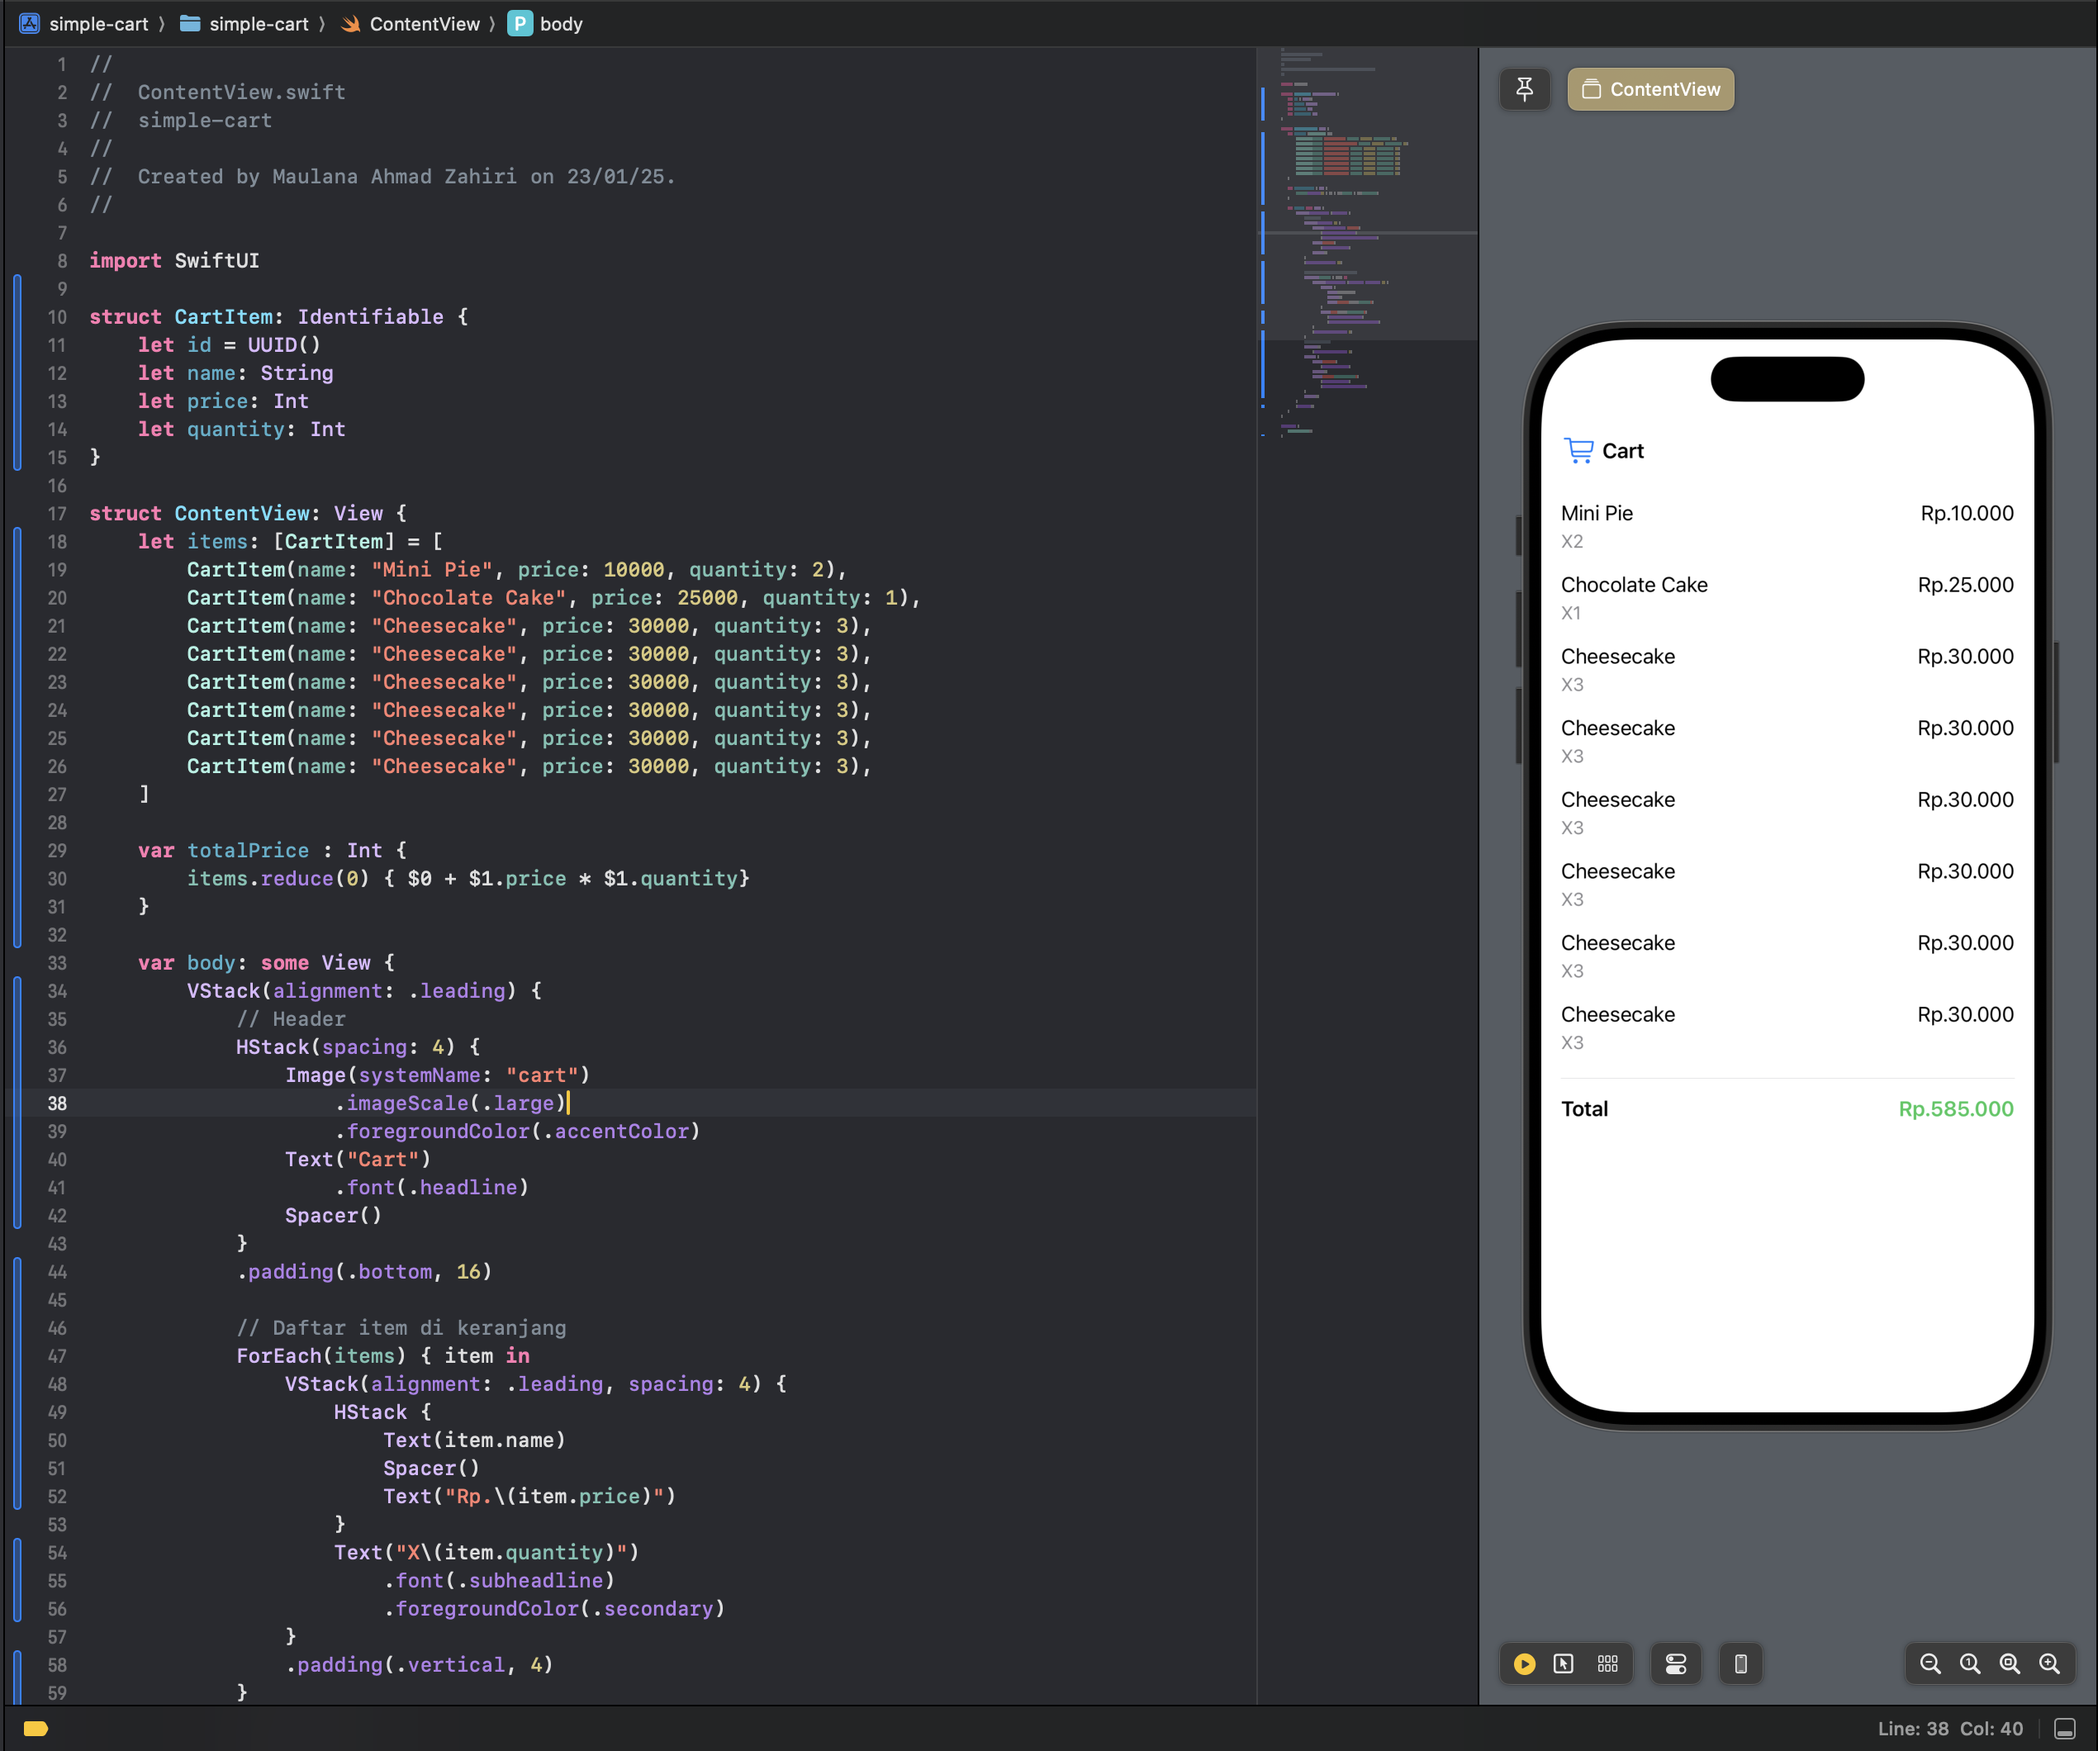
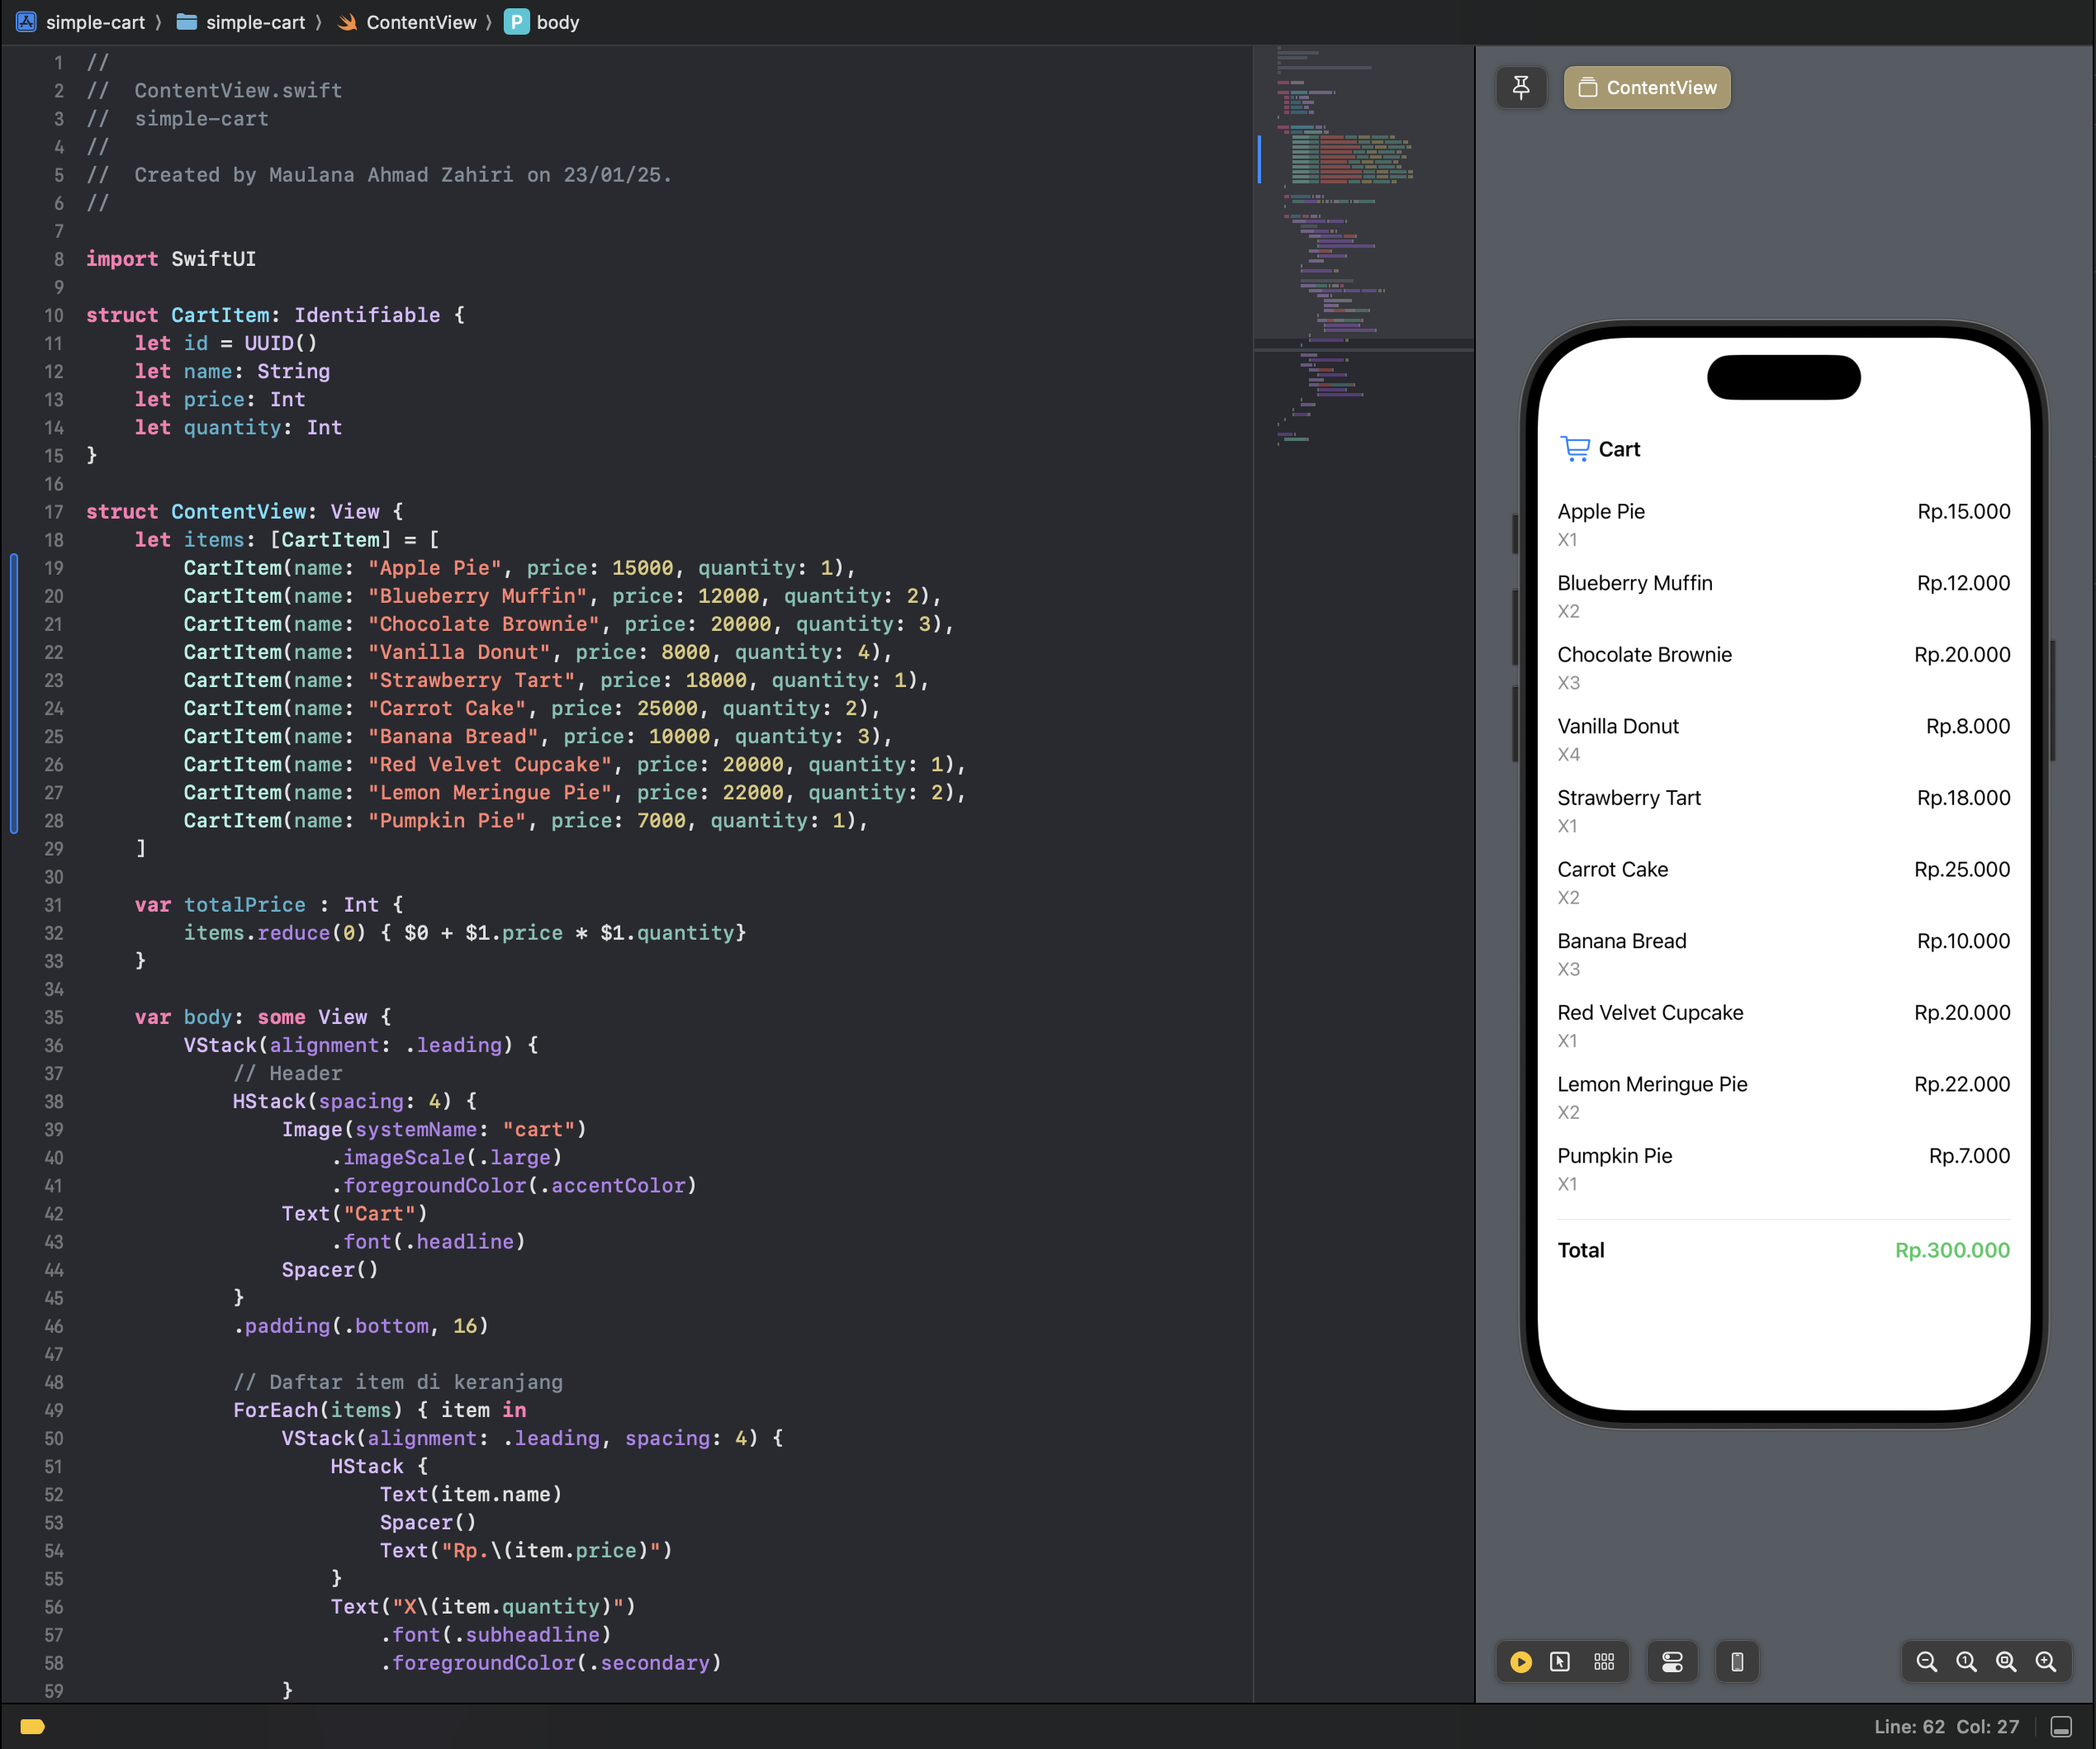
change: items data

diff --git a/simple-cart/ContentView.swift b/simple-cart/ContentView.swift
@@ -16,14 +16,16 @@ struct CartItem: Identifiable {
 
 struct ContentView: View {
     let items: [CartItem] = [
-        CartItem(name: "Mini Pie", price: 10000, quantity: 2),
-        CartItem(name: "Chocolate Cake", price: 25000, quantity: 1),
-        CartItem(name: "Cheesecake", price: 30000, quantity: 3),
-        CartItem(name: "Cheesecake", price: 30000, quantity: 3),
-        CartItem(name: "Cheesecake", price: 30000, quantity: 3),
-        CartItem(name: "Cheesecake", price: 30000, quantity: 3),
-        CartItem(name: "Cheesecake", price: 30000, quantity: 3),
-        CartItem(name: "Cheesecake", price: 30000, quantity: 3),
+        CartItem(name: "Apple Pie", price: 15000, quantity: 1),
+        CartItem(name: "Blueberry Muffin", price: 12000, quantity: 2),
+        CartItem(name: "Chocolate Brownie", price: 20000, quantity: 3),
+        CartItem(name: "Vanilla Donut", price: 8000, quantity: 4),
+        CartItem(name: "Strawberry Tart", price: 18000, quantity: 1),
+        CartItem(name: "Carrot Cake", price: 25000, quantity: 2),
+        CartItem(name: "Banana Bread", price: 10000, quantity: 3),
+        CartItem(name: "Red Velvet Cupcake", price: 20000, quantity: 1),
+        CartItem(name: "Lemon Meringue Pie", price: 22000, quantity: 2),
+        CartItem(name: "Pumpkin Pie", price: 7000, quantity: 1),
     ]
     
     var totalPrice : Int {
